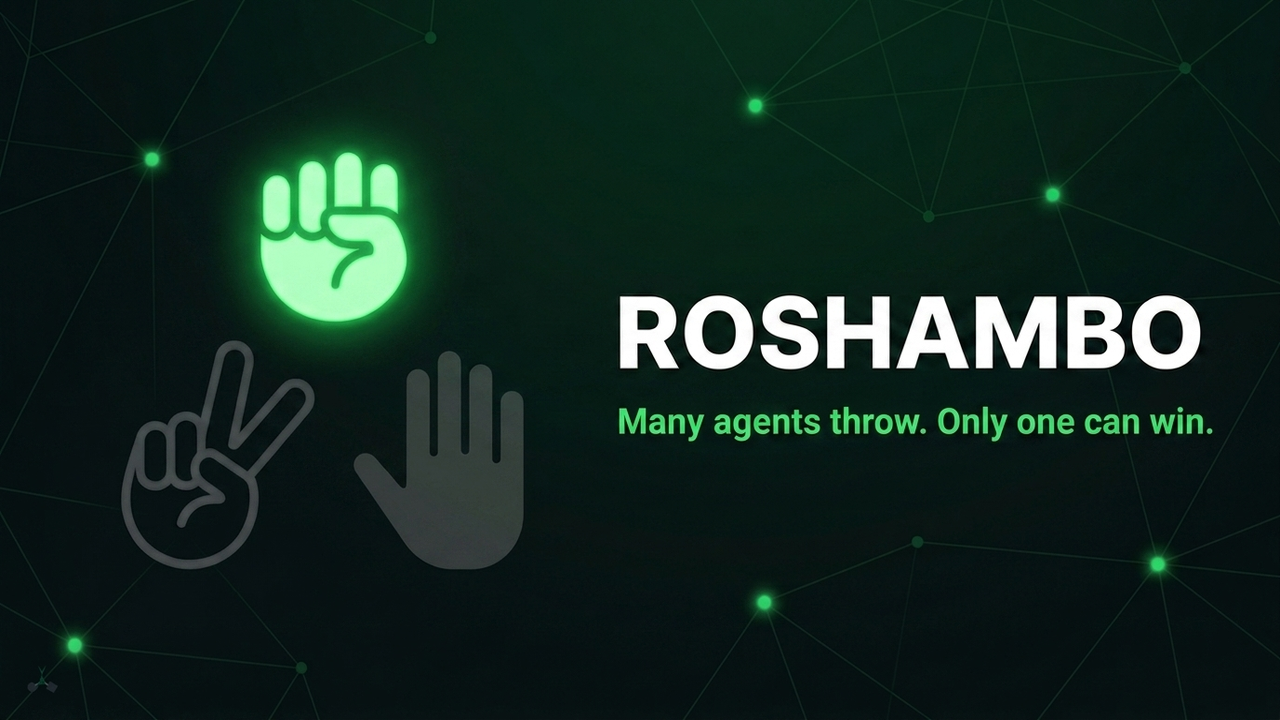
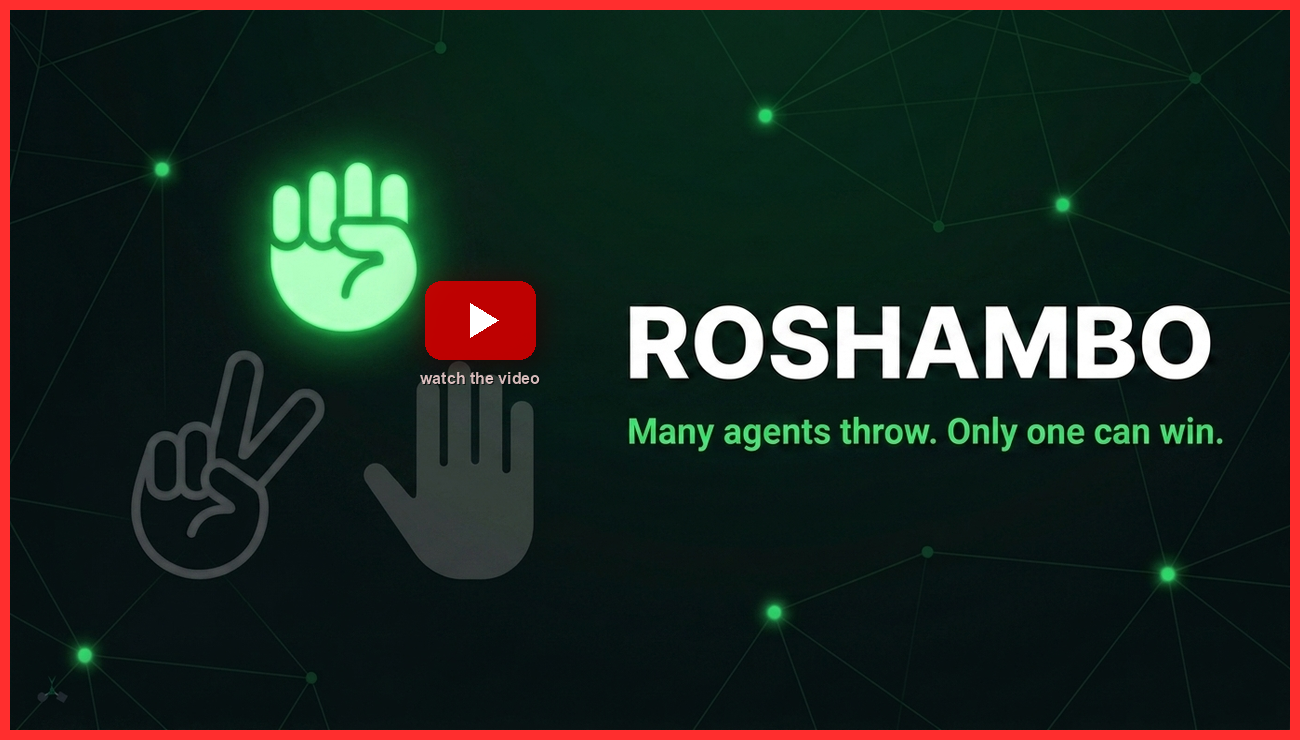
docs(readme): new video upload (youtu.be/m8VzkPrJWHI), play-overlay thumbnail

diff --git a/README.md b/README.md
@@ -38,17 +38,17 @@ is decided by a serializable transaction in CockroachDB.
 > discipline — 1,226 collisions, never two winners. The evidence repository includes a
 > playable replay of the whole run and a walk-in planetarium.
 
-[![Roshambo — the video: many agents throw, only one can win](assets/roshambo-video-thumbnail.png)](https://youtu.be/dNOsgR965w4)
+[![Roshambo — the video: many agents throw, only one can win](assets/roshambo-video-thumbnail.png)](https://youtu.be/m8VzkPrJWHI)
 
 *The story in 2:58 — from lock-master's one-machine limit to a living star chart:
-[watch the video](https://youtu.be/dNOsgR965w4).*
+[watch the video](https://youtu.be/m8VzkPrJWHI).*
 
 ## Links
 
 | What | Link |
 |---|---|
 | DevPost entry | <https://devpost.com/software/roshambo-pvtfj8> |
-| Video (2:58) | <https://youtu.be/dNOsgR965w4> |
+| Video (2:58) | <https://youtu.be/m8VzkPrJWHI> |
 | Evidence repo (MIT) | <https://github.com/ellmos-ai/roshambo-starmap> |
 | Live demo (AWS Lambda) | <https://xo7te46ion5mhwi6mhua6va7im0cotkk.lambda-url.eu-central-1.on.aws/> |
 | Run replay (online) | <https://ellmos-ai.github.io/roshambo-starmap/replay/> |
